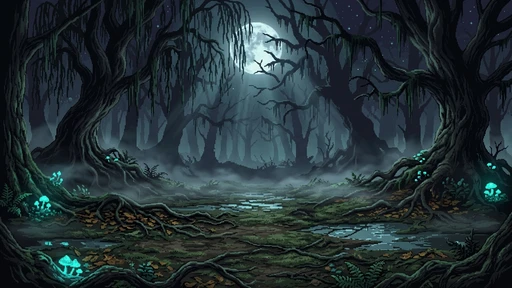
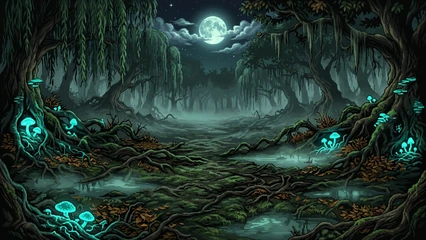
more background

diff --git a/src/tv/engine/GameEngine.ts b/src/tv/engine/GameEngine.ts
@@ -61,12 +61,12 @@ export interface SkeletonAttachmentMock {
 const KNIGHT_SKELETON_KEY = '/assets/spine/knight/HulkForm2.json';
 const KNIGHT_ATLAS_KEY = '/assets/spine/knight/HulkForm2.atlas';
 const KNIGHT_SCALE = 0.15;
-// Battle arena background textures (exact 1:1 426x240 retro canvas match)
-const BATTLE_BG_KEY = '/assets/backgrounds/cathedral_crypt_426.webp';
+// Battle arena background textures (clean 1:1 retro canvas match)
+const BATTLE_BG_KEY = '/assets/backgrounds/cathedral_crypt.webp';
 const MONSTER_BACKGROUNDS: Record<MonsterSprite, string> = {
-  TREEMON: '/assets/backgrounds/dark_forest_426.webp',
-  SLIME: '/assets/backgrounds/cathedral_crypt_426.webp',
-  HELLHOUND: '/assets/backgrounds/cathedral_crypt_426.webp',
+  TREEMON: '/assets/backgrounds/dark_forest.webp',
+  SLIME: '/assets/backgrounds/cathedral_crypt.webp',
+  HELLHOUND: '/assets/backgrounds/cathedral_crypt.webp',
 };
 // Lifts combatants + effects so they stand above the battle card hand (which covers the lower half).
 const SCENE_RAISE_Y = 40;
